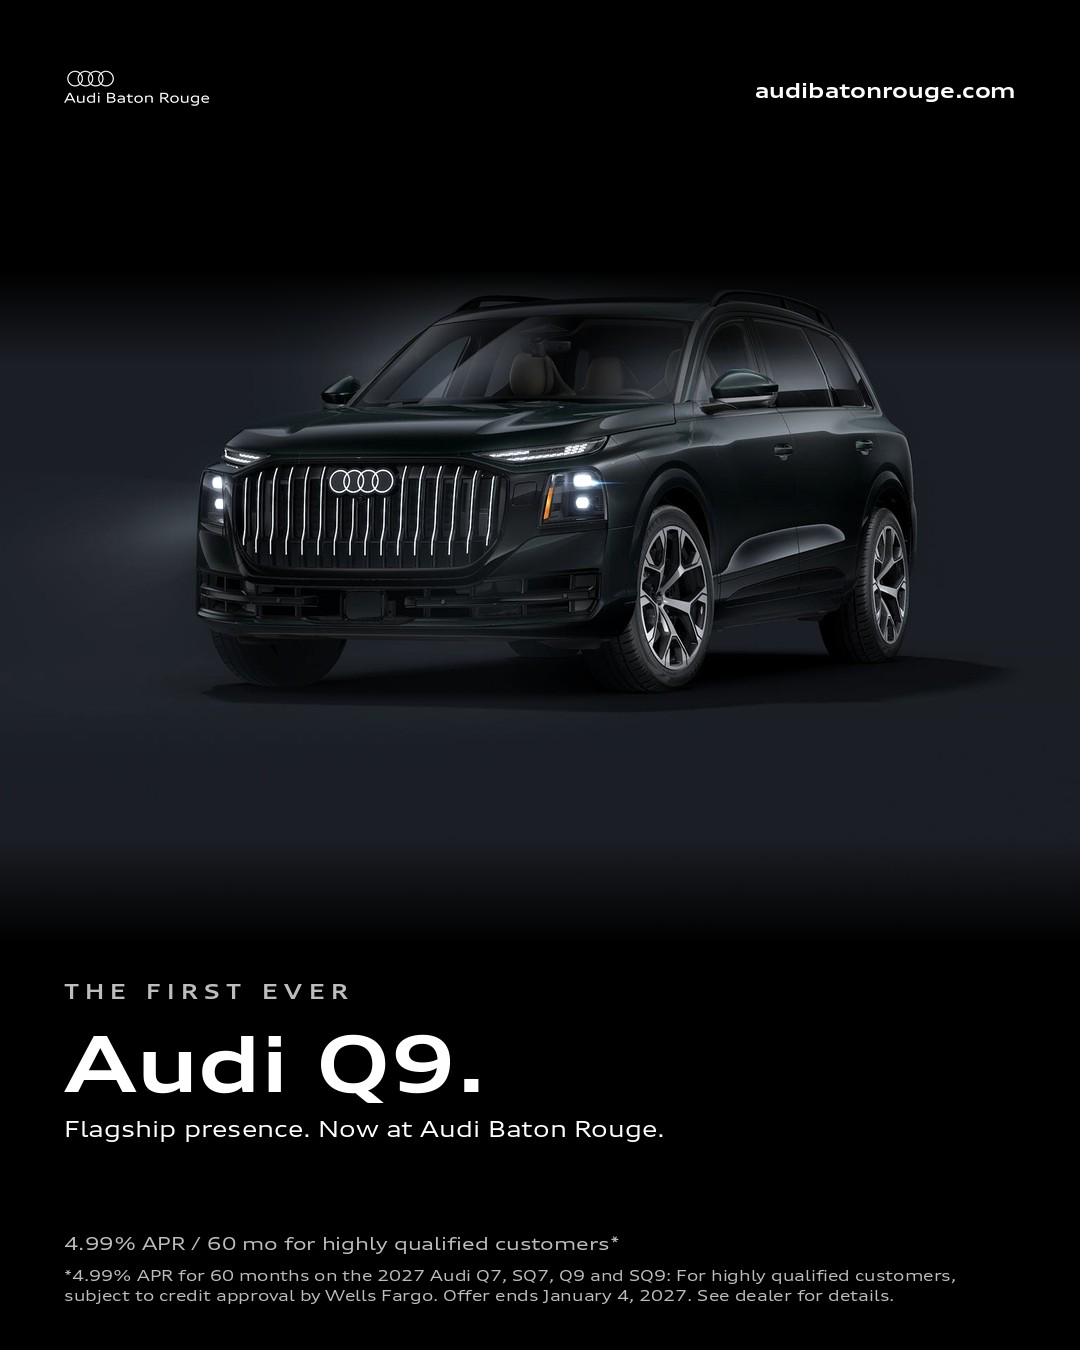
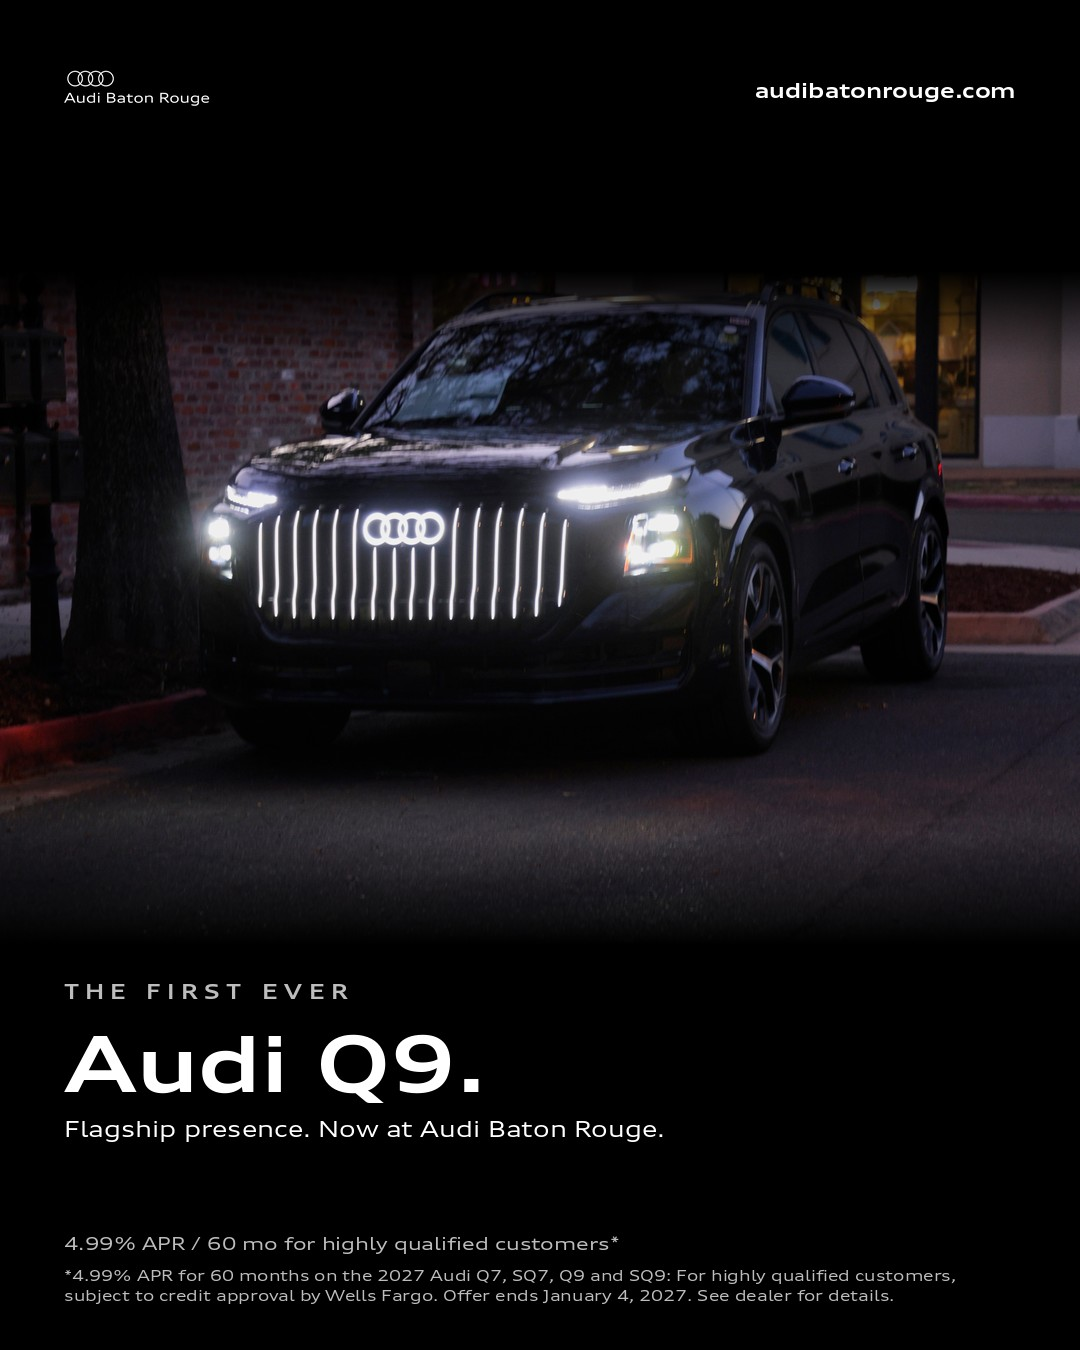
review(hub): ABR holiday ads, Q9 set swapped to Nov 12 ABR shoot (104/064/049); layout/copy unchanged

Changed region(s): [[0.0, 0.1867, 1.0, 0.6533], [0.8861, 0.5911, 0.9167, 0.6222]]

diff --git a/social/abr-holiday-model-ads-2026.html b/social/abr-holiday-model-ads-2026.html
@@ -19,10 +19,10 @@ ul{font-size:14px} @media(max-width:700px){.pair{grid-template-columns:1fr}}
 <p>Four looks, one per model, with three variants each in 4:5 feed and 9:16 story. They rotate once a week per model from Nov 19 through Jan 3. Every offer ends January 4, 2027.</p>
 <div class="note"><strong>Draft for Lance.</strong> Not approved, not scheduled, not published. Nothing goes into Post Engine until you approve here in chat.</div></div></div>
 <div class="wrap">
-<div class="sheet"><img src="abr-holiday-model-ads-2026/contact-sheet.jpg" alt="Contact sheet of all 24 ad files"><p class="sub">Contact sheet: all 24 files</p></div>
+<div class="sheet"><img src="abr-holiday-model-ads-2026/contact-sheet.jpg?v=nov12" alt="Contact sheet of all 24 ad files"><p class="sub">Contact sheet: all 24 files</p></div>
 <h2>Open questions</h2><ul>
 <li><b>Q5 photo:</b> hi-res country-club Q5 (Lance's shoot). It's a non-S Q5; please confirm it's a 2026 Premium Plus. The "2026 Q5 Black Optics" set reads as an SQ5 (S grille badge, quad tips), so I didn't use it.</li>
-<li><b>Q9 A</b> uses the Audi studio image from the tabletoppers (OEM creative). B and C are stills from the store's Nov 10 video.</li>
+<li><b>Q9</b> now uses Lance-approved photos of the blue 2027 Q9 shot at ABR on Nov 12: A #104 (night, lit grille), B #064 (rear 3/4, autumn road), C #049 (dusk, holiday greenery). Layout and copy are unchanged. Note: the C line still says &ldquo;Step inside,&rdquo; but C is now an exterior.</li>
 <li><b>2026 Q7</b> uses the store's 2026 Q7 S line showroom shoot only (no 2027 photos). The same shoot appeared in earlier posts.</li>
 <li><b>9:16 stills</b> as IG/FB Stories through Post Engine aren't verified yet. They can become short zoom reels if needed.</li></ul>
 <section class="model"><h2>2026 Audi Q5</h2><p class="sub">Performance and value hero · 1.99% APR / 60 mo, $4,000 off, $2,500 Audi bonus, up to $6,500 off</p><p class="sched"><b>Proposed weekly slots (not scheduled):</b> Thu Nov 19 (A), Wed Nov 25 (B), Thu Dec 3 (C), Thu Dec 10 (A), Thu Dec 17 (B), Wed Dec 23 (C), Thu Dec 31 (A)</p><article class="post"><h3>A · hero exterior</h3>
@@ -302,8 +302,8 @@ Audi Baton Rouge · 11955 Airline Hwy, Baton Rouge, LA 70817 · (225) 686-6012
 *4.99% APR for 60 months on the 2027 Audi Q7, SQ7, Q9 and SQ9: For highly qualified customers, subject to credit approval by Wells Fargo. Offer ends January 4, 2027. See dealer for details.
 
 #AudiQ7 #AudiBatonRouge #quattro</pre></details></article></section><section class="model"><h2>Audi Q9</h2><p class="sub">Flagship cinematic · 4.99% APR as a small secondary line only</p><p class="sched"><b>Proposed weekly slots (not scheduled):</b> Mon Nov 23 (A), Mon Nov 30 (B), Mon Dec 7 (C), Mon Dec 14 (A), Mon Dec 21 (B), Mon Dec 28 (C)</p><article class="post"><h3>A · hero exterior</h3>
-<div class="pair"><figure><img src="abr-holiday-model-ads-2026/abr-q9-a-4x5.jpg" alt="Audi Q9 A · hero exterior 4:5" loading="lazy"><figcaption>Feed 4:5 · 1080×1350</figcaption></figure>
-<figure><img src="abr-holiday-model-ads-2026/abr-q9-a-9x16.jpg" alt="Audi Q9 A · hero exterior 9:16" loading="lazy"><figcaption>Story 9:16 · 1080×1920</figcaption></figure></div>
+<div class="pair"><figure><img src="abr-holiday-model-ads-2026/abr-q9-a-4x5.jpg?v=nov12" alt="Audi Q9 A · hero exterior 4:5" loading="lazy"><figcaption>Feed 4:5 · 1080×1350</figcaption></figure>
+<figure><img src="abr-holiday-model-ads-2026/abr-q9-a-9x16.jpg?v=nov12" alt="Audi Q9 A · hero exterior 9:16" loading="lazy"><figcaption>Story 9:16 · 1080×1920</figcaption></figure></div>
 <details><summary>Instagram caption</summary><pre>The first ever Audi Q9.
 
 Now at Audi Baton Rouge.
@@ -328,8 +328,8 @@ Audi Baton Rouge · 11955 Airline Hwy, Baton Rouge, LA 70817 · (225) 686-6012
 *4.99% APR for 60 months on the 2027 Audi Q7, SQ7, Q9 and SQ9: For highly qualified customers, subject to credit approval by Wells Fargo. Offer ends January 4, 2027. See dealer for details.
 
 #AudiQ9 #AudiBatonRouge #Audi</pre></details></article><article class="post"><h3>B · side / rear 3/4</h3>
-<div class="pair"><figure><img src="abr-holiday-model-ads-2026/abr-q9-b-4x5.jpg" alt="Audi Q9 B · side / rear 3/4 4:5" loading="lazy"><figcaption>Feed 4:5 · 1080×1350</figcaption></figure>
-<figure><img src="abr-holiday-model-ads-2026/abr-q9-b-9x16.jpg" alt="Audi Q9 B · side / rear 3/4 9:16" loading="lazy"><figcaption>Story 9:16 · 1080×1920</figcaption></figure></div>
+<div class="pair"><figure><img src="abr-holiday-model-ads-2026/abr-q9-b-4x5.jpg?v=nov12" alt="Audi Q9 B · side / rear 3/4 4:5" loading="lazy"><figcaption>Feed 4:5 · 1080×1350</figcaption></figure>
+<figure><img src="abr-holiday-model-ads-2026/abr-q9-b-9x16.jpg?v=nov12" alt="Audi Q9 B · side / rear 3/4 9:16" loading="lazy"><figcaption>Story 9:16 · 1080×1920</figcaption></figure></div>
 <details><summary>Instagram caption</summary><pre>The first ever Audi Q9. See it at Audi Baton Rouge.
 
 Now at Audi Baton Rouge.
@@ -354,8 +354,8 @@ Audi Baton Rouge · 11955 Airline Hwy, Baton Rouge, LA 70817 · (225) 686-6012
 *4.99% APR for 60 months on the 2027 Audi Q7, SQ7, Q9 and SQ9: For highly qualified customers, subject to credit approval by Wells Fargo. Offer ends January 4, 2027. See dealer for details.
 
 #AudiQ9 #AudiBatonRouge #Audi</pre></details></article><article class="post"><h3>C · detail / interior</h3>
-<div class="pair"><figure><img src="abr-holiday-model-ads-2026/abr-q9-c-4x5.jpg" alt="Audi Q9 C · detail / interior 4:5" loading="lazy"><figcaption>Feed 4:5 · 1080×1350</figcaption></figure>
-<figure><img src="abr-holiday-model-ads-2026/abr-q9-c-9x16.jpg" alt="Audi Q9 C · detail / interior 9:16" loading="lazy"><figcaption>Story 9:16 · 1080×1920</figcaption></figure></div>
+<div class="pair"><figure><img src="abr-holiday-model-ads-2026/abr-q9-c-4x5.jpg?v=nov12" alt="Audi Q9 C · detail / interior 4:5" loading="lazy"><figcaption>Feed 4:5 · 1080×1350</figcaption></figure>
+<figure><img src="abr-holiday-model-ads-2026/abr-q9-c-9x16.jpg?v=nov12" alt="Audi Q9 C · detail / interior 9:16" loading="lazy"><figcaption>Story 9:16 · 1080×1920</figcaption></figure></div>
 <details><summary>Instagram caption</summary><pre>Step inside the first ever Audi Q9.
 
 Now at Audi Baton Rouge.
